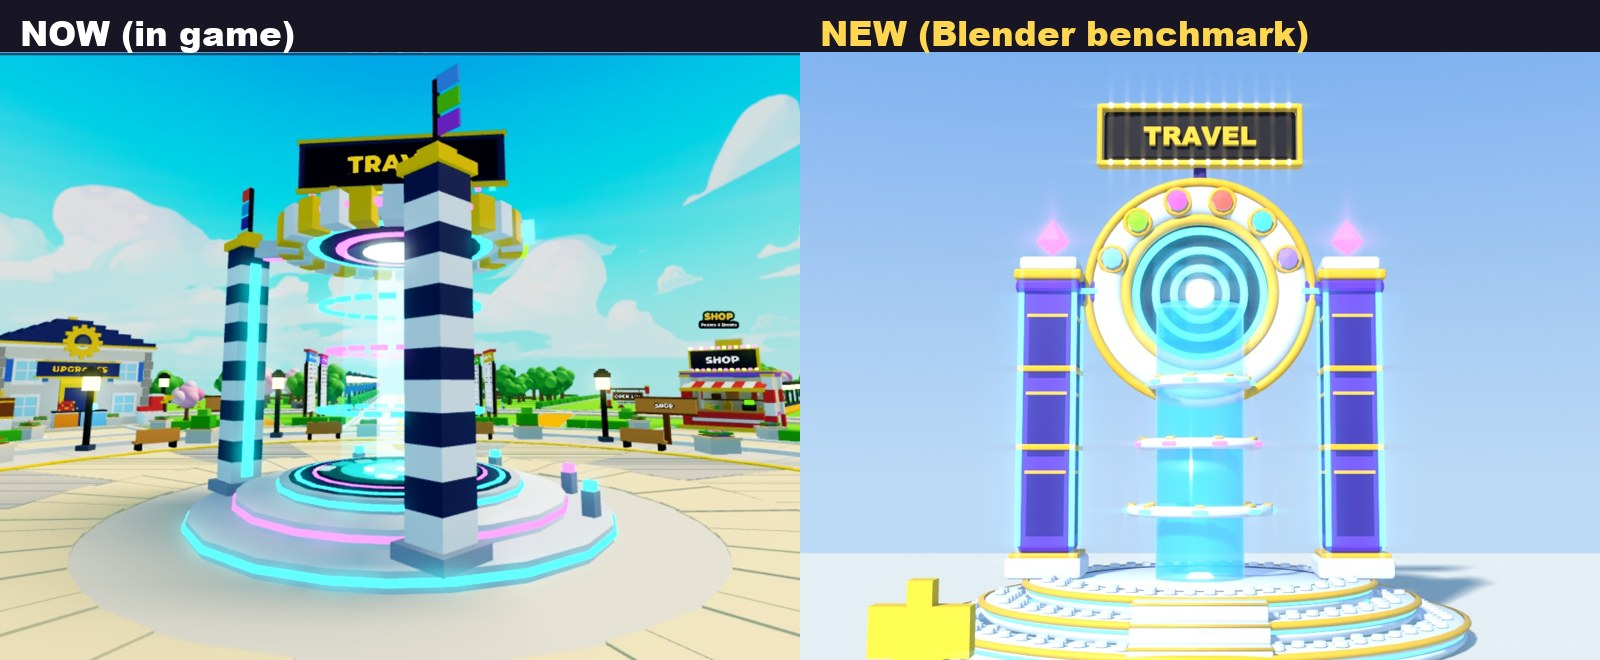
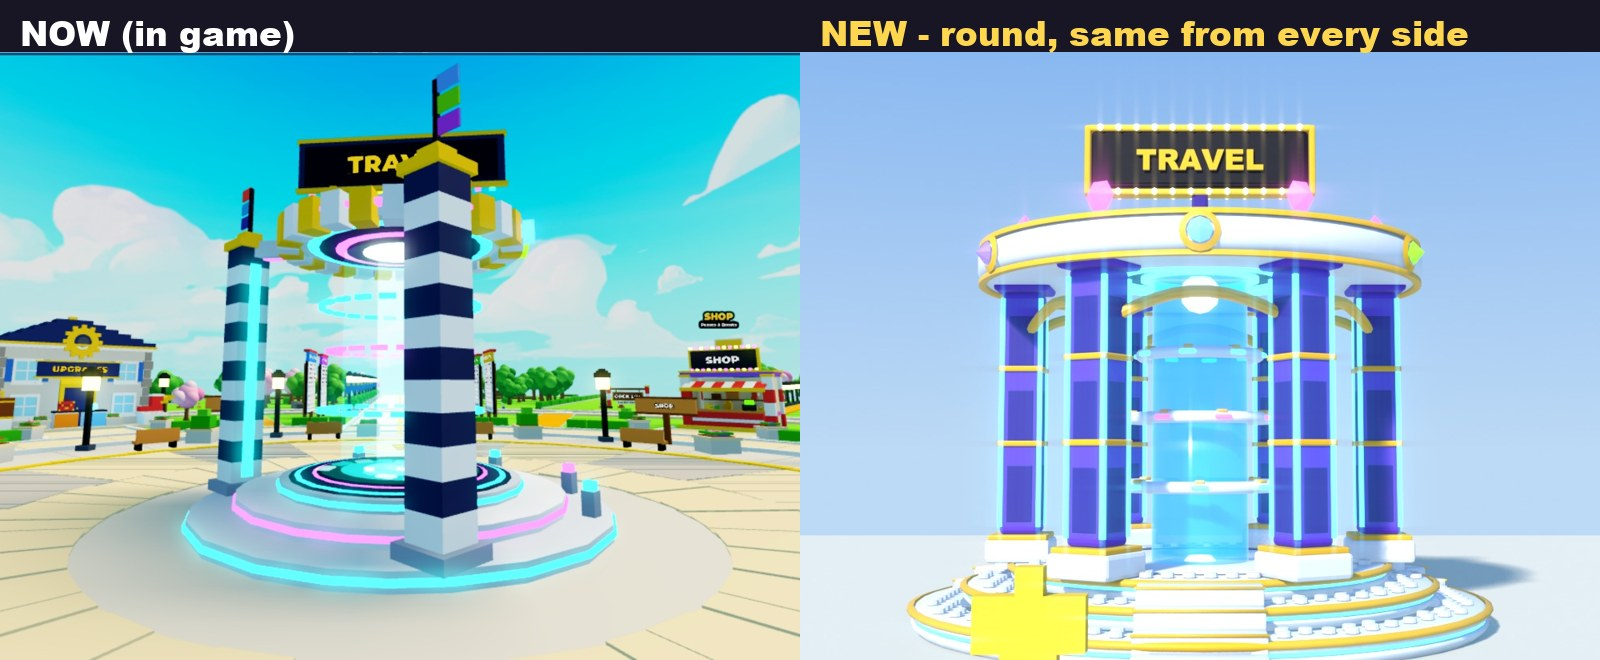
Portal benchmark v2 (crnuch: circular + symmetrical, the same from all sides): 6 pillars on a ring, flat crown with the 6 zone gems over the openings, emitter underneath, domed top, 3 stairways every 120 degrees, spinning 2-faced sign

Changed region(s): [[0.5, 0.1515, 1.0, 1.0], [0.5625, 0.0303, 0.9375, 0.0909]]

diff --git a/tools/blender/overhaul/portal.py b/tools/blender/overhaul/portal.py
@@ -143,9 +143,52 @@ def studs_annulus(name, look, r0, r1, z, pitch=1.0, rad=0.32, h=0.22, segs=10):
                 bm.faces.new(top)
 
 
-# ------------------------------------------------------------------ the portal
+# ------------------------------------------------------------------ the portal (v2, crnuch 2026-10-24: "circular and
+# symmetrical around so it looks the same from all sides": it stands in the middle of the hub plaza)
+def to_world(cx, cy, ang, lx, ly):
+    return (cx + lx * math.cos(ang) - ly * math.sin(ang), cy + lx * math.sin(ang) + ly * math.cos(ang))
+
+
+def gem_radial(name, look, centre, r, out, facets=8):
+    """A faceted crystal pointing outward along `out` (a horizontal direction)."""
+    bm = bm_for(name, look)
+    c, out = Vector(centre), Vector(out).normalized()
+    side = Vector((-out.y, out.x, 0))
+    ring = [bm.verts.new(c + (side * math.cos(k / facets * TAU) + Vector((0, 0, 1)) * math.sin(k / facets * TAU)) * r)
+            for k in range(facets)]
+    tip, back = bm.verts.new(c + out * r * 0.95), bm.verts.new(c - out * r * 0.5)
+    for k in range(facets):
+        j = (k + 1) % facets
+        bm.faces.new((ring[k], ring[j], tip))
+        bm.faces.new((ring[j], ring[k], back))
+
+
+def arc(name, look, p0, p1, rise, r=0.28, n=12, segs=8):
+    """A curved band from p0 to p1 bowing up by `rise` (the gold arches between the pillars)."""
+    bm = bm_for(name, look)
+    p0, p1 = Vector(p0), Vector(p1)
+    pts = [p0.lerp(p1, t) + Vector((0, 0, rise * math.sin(t * math.pi))) for t in (i / (n - 1) for i in range(n))]
+    rings, side = [], None
+    for i, p in enumerate(pts):
+        d = (pts[min(i + 1, n - 1)] - pts[max(i - 1, 0)]).normalized()
+        side = side or d.cross(Vector((0, 0, 1))).normalized()
+        side = (side - d * side.dot(d)).normalized()
+        up = side.cross(d).normalized()
+        rings.append([bm.verts.new(p + (side * math.cos(k / segs * TAU) + up * math.sin(k / segs * TAU)) * r) for k in range(segs)])
+    for i in range(n - 1):
+        for k in range(segs):
+            bm.faces.new((rings[i][k], rings[i][(k + 1) % segs], rings[i + 1][(k + 1) % segs], rings[i + 1][k]))
+
+
+PAD_Z = 3.1
+PILLAR_R = 9.6      # pillar ring radius
+PILLAR_H = 13.0
+CROWN_Z = PAD_Z + 1.45 + PILLAR_H + 1.2   # the crown ring sits on the pillar caps
+N_PILLARS = 6
+
+
 def stage():
-    """Three round tiers: bevelled white bodies, a gold lip, a recessed neon channel, studded tops."""
+    """Three round tiers: bevelled white bodies, a gold lip, a recessed neon channel, studded tops; steps on 4 sides."""
     tiers = ((15.0, 0.0, 1.2), (12.4, 1.2, 1.0), (10.0, 2.2, 0.9))
     for k, (R, z0, h) in enumerate(tiers):
         z1 = z0 + h
@@ -157,13 +200,16 @@ def stage():
         lathe("Stage_Gold", "trim_gold", [(R + 0.05, z1 - 0.32), (R + 0.22, z1 - 0.2), (R + 0.22, z1 - 0.05), (R - 0.1, z1 + 0.04)])
         inner = tiers[k + 1][0] if k < 2 else 7.4
         studs_annulus("Stage_Studs", "stage_white", inner, R - 0.4, z1 + 0.04)  # classic studs: the surface's own colour
-    # front steps up to the pad (they cut through the tier faces: the walk-in side)
-    for i in range(4):  # each step 0.775 up, ending flush with the top tier (3.1)
-        h = (i + 1) * 0.775
-        box("Stage_White", "stage_white", (0, -15.6 + i * 1.5, h / 2), (6.4, 1.5, h), bevel=0.1)
-        box("Stage_Gold", "trim_gold", (0, -16.35 + i * 1.5, h - 0.06), (6.5, 0.16, 0.12))
+    for q in range(3):  # three matching stairways every 120 degrees, each landing in a gap between pillars
+        ang = q * TAU / 3
+        for i in range(4):  # each step 0.775 up, ending flush with the top tier (3.1)
+            h = (i + 1) * 0.775
+            x, y = to_world(0, 0, ang, 0, -15.6 + i * 1.5)
+            box("Stage_White", "stage_white", (x, y, h / 2), (5.6, 1.5, h), bevel=0.1, rot=ang)
+            x, y = to_world(0, 0, ang, 0, -16.35 + i * 1.5)
+            box("Stage_Gold", "trim_gold", (x, y, h - 0.06), (5.7, 0.16, 0.12), rot=ang)
     # the pad: a dark recessed disc with glowing rings + the flat swirl
-    z = 3.1
+    z = PAD_Z
     lathe("Pad_Dark", "pad_dark", [(7.4, z + 0.05), (7.0, z - 0.2), (0.0, z - 0.2)])
     for r0, r1, look in ((6.6, 7.0, "neon_cyan"), (5.0, 5.3, "neon_pink"), (3.3, 3.55, "neon_cyan")):
         lathe("Pad_Rings", look, [(r1, z - 0.18), (r1, z - 0.05), (r0, z - 0.05), (r0, z - 0.18)])
@@ -171,107 +217,130 @@ def stage():
     lathe("SwirlCore", "core", [(0.9, z - 0.06), (0.6, z + 0.25), (0.0, z + 0.3)])
     for k in range(4):  # spiral arms lying flat on the pad (spun by the client)
         bm = bm_for(f"SwirlArm{k + 1}", "swirl")
-        pts = 16
         prev = None
-        for i in range(pts):
-            t = i / (pts - 1)
+        for i in range(16):
+            t = i / 15
             a = k / 4 * TAU + t * 3.4
             r = 0.9 + t * 5.4
             w = 0.5 * (1 - t) + 0.12
             p = Vector((math.cos(a) * r, math.sin(a) * r, z - 0.02))
-            n = Vector((-math.sin(a), math.cos(a), 0))
-            pair = (bm.verts.new(p + n * w), bm.verts.new(p - n * w))
+            nrm = Vector((-math.sin(a), math.cos(a), 0))
+            pair = (bm.verts.new(p + nrm * w), bm.verts.new(p - nrm * w))
             if prev:
                 bm.faces.new((prev[0], prev[1], pair[1], pair[0]))
             prev = pair
 
 
 def pylons():
-    """Two pillars beside the pad: stepped plinth, panelled shaft with neon edge strips, gold-trimmed capital, crystal."""
-    for side in (-1, 1):
-        x = side * 9.0
-        y = 1.0
-        base_z = 3.1
-        box("Pylon_Base", "stage_white", (x, y, base_z + 0.6), (4.4, 4.4, 1.2), bevel=0.25)
-        box("Pylon_Gold", "trim_gold", (x, y, base_z + 1.3), (4.0, 4.0, 0.3), bevel=0.08)
-        box("Pylon_Shaft", "pylon_purple", (x, y, base_z + 1.45 + 8.0), (3.2, 3.2, 16.0), bevel=0.3)
-        for dx, dy in ((1, 1), (1, -1), (-1, 1), (-1, -1)):  # neon edge strips on the four corners
-            box("Pylon_Glow", "neon_cyan", (x + dx * 1.55, y + dy * 1.55, base_z + 1.45 + 8.0), (0.28, 0.28, 15.2))
-        for face, (nx, ny) in enumerate(((0, -1), (0, 1), (-1, 0), (1, 0))):  # recessed panels with a gold frame, 3 per face
-            for k in range(3):
-                pz = base_z + 4.2 + k * 4.6
-                if nx == 0:
-                    box("Pylon_Deep", "pylon_deep", (x, y + ny * 1.52, pz), (2.2, 0.2, 3.6), bevel=0.05)
-                    box("Pylon_Gold", "trim_gold", (x, y + ny * 1.6, pz + 1.9), (2.4, 0.16, 0.18))
-                else:
-                    box("Pylon_Deep", "pylon_deep", (x + nx * 1.52, y, pz), (0.2, 2.2, 3.6), bevel=0.05)
-                    box("Pylon_Gold", "trim_gold", (x + nx * 1.6, y, pz + 1.9), (0.16, 2.4, 0.18))
-        for bz in (base_z + 1.45 + 5.6, base_z + 1.45 + 10.2):  # gold bands between the panels
-            box("Pylon_Gold", "trim_gold", (x, y, bz + 0.5), (3.5, 3.5, 0.35), bevel=0.08)
-        top = base_z + 1.45 + 16.0
-        box("Pylon_Shaft", "pylon_purple", (x, y, top - 0.4), (3.8, 3.8, 0.8), bevel=0.25)  # the capital flares out
-        box("Pylon_Gold", "trim_gold", (x, y, top + 0.3), (4.0, 4.0, 0.6), bevel=0.15)
-        box("Pylon_Base", "stage_white", (x, y, top + 1.0), (3.4, 3.4, 0.8), bevel=0.2)
-        gem("Pylon_Crystal", "neon_pink", (x, y, top + 2.6), 1.0, facets=6, axis_front=False)
-    # the arms that hold the halo: gold-trimmed beams from each capital in to the halo rim
-    for side in (-1, 1):
-        box("Pylon_Shaft", "pylon_purple", (side * 7.4, 1.0, 20.0), (3.4, 1.6, 1.4), bevel=0.25)
-        box("Pylon_Glow", "neon_cyan", (side * 7.4, 0.15, 20.0), (3.0, 0.2, 0.3))
+    """Six identical pillars on a ring, each turned to face outward: plinth, panelled shaft with neon edges and gold bands,
+    a flared capital; gold arches join neighbours just under the crown."""
+    base_z = PAD_Z
+    for i in range(N_PILLARS):
+        ang = i / N_PILLARS * TAU  # pillars at 0, 60, 120 ... degrees; the gaps (30, 90, ...) hold the stairways + the gems
+        cx, cy = math.cos(ang) * PILLAR_R, math.sin(ang) * PILLAR_R
+        face = ang + math.pi / 2  # local -y points outward
+        def B(look_name, look, lx, ly, z, size, bevel=0.0):
+            x, y = to_world(cx, cy, face, lx, ly)
+            box(look_name, look, (x, y, z), size, bevel=bevel, rot=face)
+        B("Pylon_Base", "stage_white", 0, 0, base_z + 0.6, (3.4, 3.4, 1.2), 0.22)
+        B("Pylon_Gold", "trim_gold", 0, 0, base_z + 1.3, (3.1, 3.1, 0.3), 0.08)
+        B("Pylon_Shaft", "pylon_purple", 0, 0, base_z + 1.45 + PILLAR_H / 2, (2.1, 2.1, PILLAR_H), 0.22)
+        for dx, dy in ((1, 1), (1, -1), (-1, 1), (-1, -1)):
+            B("Pylon_Glow", "neon_cyan", dx * 1.01, dy * 1.01, base_z + 1.45 + PILLAR_H / 2, (0.22, 0.22, PILLAR_H - 0.8))
+        for k in range(3):  # recessed panels on all four faces (the pillar looks the same from any side too)
+            pz = base_z + 3.6 + k * 4.0
+            for lx, ly, sx, sy in ((0, -0.99, 1.35, 0.2), (0, 0.99, 1.35, 0.2), (-0.99, 0, 0.2, 1.35), (0.99, 0, 0.2, 1.35)):
+                B("Pylon_Deep", "pylon_deep", lx, ly, pz, (sx, sy, 3.0), 0.05)
+        for bz in (base_z + 1.45 + 4.4, base_z + 1.45 + 8.4):
+            B("Pylon_Gold", "trim_gold", 0, 0, bz + 0.4, (2.4, 2.4, 0.3), 0.08)
+        top = base_z + 1.45 + PILLAR_H
+        B("Pylon_Shaft", "pylon_purple", 0, 0, top + 0.3, (3.0, 3.0, 0.6), 0.2)
+        B("Pylon_Gold", "trim_gold", 0, 0, top + 0.75, (3.2, 3.2, 0.3), 0.1)
+        gem_radial("Pylon_Crystal", "neon_pink", (cx, cy, CROWN_Z + 2.4), 0.8, (math.cos(ang), math.sin(ang), 0), facets=6)
+    # gold arches between neighbouring pillars, just under the crown
+    for i in range(N_PILLARS):
+        a0, a1 = i / N_PILLARS * TAU, (i + 1) / N_PILLARS * TAU
+        z = PAD_Z + 1.45 + PILLAR_H - 2.6
+        arc("Arch_Gold", "trim_gold", (math.cos(a0) * PILLAR_R, math.sin(a0) * PILLAR_R, z),
+            (math.cos(a1) * PILLAR_R, math.sin(a1) * PILLAR_R, z), 1.6, r=0.3)
 
 
 def halo():
-    """The floating emitter: a thick white rim with a gold inner lip, six gem sockets, concentric glowing rings, the core."""
-    c = Vector((0, 1.0, 20.0))
-    torus_v("Halo_Rim", "stage_white", c, 5.6, 1.1, segs=64, tube=14, axis="y", sx=1.0)
-    torus_v("Halo_Gold", "trim_gold", c + Vector((0, -0.55, 0)), 4.45, 0.35, segs=64, tube=10, axis="y")
-    torus_v("Halo_Gold", "trim_gold", c + Vector((0, -0.55, 0)), 6.75, 0.3, segs=64, tube=10, axis="y")
-    for i in range(6):  # gems across the top half, in lane order left -> right
-        a = math.radians(160 - i * 28)
-        p = c + Vector((math.cos(a) * 5.6, -1.15, math.sin(a) * 5.6))
-        torus_v("Halo_Gold", "trim_gold", p + Vector((0, 0.15, 0)), 0.75, 0.16, segs=20, tube=8, axis="y")
-        gem(f"Gem{i + 1}", f"gem{i + 1}", p + Vector((0, -0.2, 0)), 0.62, facets=8)
-    # the emitter face: concentric rings that glow downwards, the core in the middle
-    for R, look in ((3.9, "neon_cyan"), (2.7, "neon_pink"), (1.6, "neon_cyan")):
-        torus_v("Halo_Rings", look, c + Vector((0, 0.1, 0)), R, 0.22, segs=48, tube=8, axis="y")
-    box("Halo_Back", "pad_dark", c + Vector((0, 0.6, 0)), (9.4, 0.4, 9.4), bevel=0.2)
+    """The crown: a flat white ring on the pillar caps with gold lips, the six zone gems round its outer edge (each facing
+    out, in lane order), and the emitter underneath - concentric glowing rings + the core, shining down the beam."""
+    z = CROWN_Z
+    lathe("Halo_Rim", "stage_white", [(PILLAR_R - 2.2, z - 0.9), (PILLAR_R + 2.0, z - 0.9), (PILLAR_R + 2.4, z - 0.4),
+                                       (PILLAR_R + 2.4, z + 0.5), (PILLAR_R + 2.0, z + 0.9), (PILLAR_R - 2.2, z + 0.9),
+                                       (PILLAR_R - 2.5, z + 0.4), (PILLAR_R - 2.5, z - 0.4), (PILLAR_R - 2.2, z - 0.9)], segs=72)
+    for zz, rr in ((z + 0.95, PILLAR_R + 2.15), (z - 0.95, PILLAR_R + 2.15), (z + 0.95, PILLAR_R - 2.3)):
+        lathe("Halo_Gold", "trim_gold", [(rr + 0.2, zz - 0.12), (rr + 0.2, zz + 0.12), (rr - 0.2, zz + 0.12), (rr - 0.2, zz - 0.12),
+                                          (rr + 0.2, zz - 0.12)], segs=72)
+    for i in range(6):  # the gems sit between the pillars, each in a gold socket, facing out
+        a = i / 6 * TAU - math.pi / 2  # over the six openings between pillars, starting at the front, in lane order
+        out = Vector((math.cos(a), math.sin(a), 0))
+        p = Vector((0, 0, z)) + out * (PILLAR_R + 2.45)
+        bm = bm_for("Halo_Gold", "trim_gold")
+        side = Vector((-out.y, out.x, 0))
+        ring = []
+        for k in range(16):  # the socket: a flat gold ring facing out
+            b = k / 16 * TAU
+            ring.append((bm.verts.new(p + (side * math.cos(b) + Vector((0, 0, 1)) * math.sin(b)) * 0.95),
+                         bm.verts.new(p + (side * math.cos(b) + Vector((0, 0, 1)) * math.sin(b)) * 0.65 + out * 0.15)))
+        for k in range(16):
+            j = (k + 1) % 16
+            bm.faces.new((ring[k][0], ring[j][0], ring[j][1], ring[k][1]))
+        gem_radial(f"Gem{i + 1}", f"gem{i + 1}", p + out * 0.2, 0.6, out)
+    # the emitter: a dark disc filling the ring, glowing rings facing down, the core
+    lathe("Halo_Back", "pad_dark", [(PILLAR_R - 2.2, z - 0.3), (0.0, z - 0.3)], segs=48)
+    # the crown's top: a shallow white dome with gold rings (seen from above as you walk up)
+    lathe("Halo_Rim", "stage_white", [(PILLAR_R - 2.3, z + 0.85), (5.2, z + 1.5), (3.0, z + 2.0), (1.0, z + 2.2), (0.0, z + 2.22)], segs=64)
+    for rr, zz in ((5.2, z + 1.52), (3.0, z + 2.02)):
+        lathe("Halo_Gold", "trim_gold", [(rr + 0.25, zz - 0.06), (rr + 0.25, zz + 0.1), (rr - 0.25, zz + 0.1), (rr - 0.25, zz - 0.06)], segs=48)
+    for R, look in ((6.2, "neon_cyan"), (4.6, "neon_pink"), (3.0, "neon_cyan")):
+        lathe("Halo_Rings", look, [(R + 0.25, z - 0.32), (R + 0.25, z - 0.55), (R - 0.25, z - 0.55), (R - 0.25, z - 0.32)], segs=48)
     bm = bm_for("HaloCore", "core")
-    g = bmesh.ops.create_icosphere(bm, subdivisions=2, radius=0.9)
+    g = bmesh.ops.create_icosphere(bm, subdivisions=2, radius=1.1)
     for v in g["verts"]:
-        v.co += c
+        v.co += Vector((0, 0, z - 1.2))
 
 
 def beam_and_rings():
-    """The light column from the pad up to the halo, and three floating rings around it (turned + bobbed in game)."""
-    lathe("Beam", "neon_cyan", [(2.6, 3.0), (2.6, 19.0), (0.0, 19.0)], segs=40)
-    for k, (z, R) in enumerate(((7.0, 4.0), (10.8, 3.4), (14.4, 2.8))):
+    """The light column from the pad up to the crown, and three floating rings around it (turned + bobbed in game)."""
+    lathe("Beam", "neon_cyan", [(2.6, PAD_Z - 0.1), (2.6, CROWN_Z - 0.5), (0.0, CROWN_Z - 0.5)], segs=40)
+    for k, (zf, R) in enumerate(((PAD_Z + 4.0, 4.4), (PAD_Z + 7.6, 3.8), (PAD_Z + 11.0, 3.2))):
         name = f"FloatRing{k + 1}"
-        torus_v(name + "_White", "stage_white", (0, 0, z), R, 0.32, segs=48, tube=10, axis="z")
-        for i in range(8):  # glowing inserts + gold caps around the ring
+        torus_v(name + "_White", "stage_white", (0, 0, zf), R, 0.32, segs=48, tube=10, axis="z")
+        for i in range(8):
             a = i / 8 * TAU + k * 0.3
-            p = Vector((math.cos(a) * R, math.sin(a) * R, z))
+            p = Vector((math.cos(a) * R, math.sin(a) * R, zf))
             box(name + "_Glow", "neon_pink" if k == 1 else "neon_cyan", p, (0.9, 0.9, 0.25), bevel=0.1, rot=a)
             box(name + "_Gold", "trim_gold", p + Vector((0, 0, 0.3)), (0.5, 0.5, 0.2), bevel=0.06, rot=a)
 
 
 def sign():
-    """The TRAVEL sign over the portal: a black attraction board with a gold frame and bulbs (CLAUDE.md sign styles)."""
-    z = 30.0  # clear of the halo's top (26.9)
-    box("Sign_Board", "sign_black", (0, 2.0, z), (12.0, 0.8, 3.4), bevel=0.25)
-    box("SignPlate", "sign_black", (0, 1.55, z), (11.0, 0.1, 2.6))
+    """The TRAVEL sign on a stem above the crown's centre: a black attraction board with a gold frame and bulbs (it spins in
+    game, text on both faces - so it reads from every side too)."""
+    z = CROWN_Z + 6.2
+    box("Sign_Post", "pylon_deep", (0, 0, CROWN_Z + 2.2), (0.9, 0.9, 4.4), bevel=0.15)
+    lathe("Sign_Gold", "trim_gold", [(1.6, CROWN_Z + 2.0), (1.6, CROWN_Z + 2.6), (0.0, CROWN_Z + 2.6)], segs=24)
+    box("Sign_Board", "sign_black", (0, 0, z), (12.0, 0.9, 3.4), bevel=0.25)
+    for yy in (-0.5, 0.5):
+        box("SignPlate" if yy < 0 else "Sign_PlateBack", "sign_black", (0, yy, z), (11.0, 0.1, 2.6))
     for dz in (1.8, -1.8):
-        box("Sign_Gold", "trim_gold", (0, 1.55, z + dz), (12.4, 1.0, 0.35), bevel=0.1)
+        box("Sign_Gold", "trim_gold", (0, 0, z + dz), (12.4, 1.1, 0.35), bevel=0.1)
     for dx in (6.2, -6.2):
-        box("Sign_Gold", "trim_gold", (dx, 1.55, z), (0.35, 1.0, 3.9), bevel=0.1)
+        box("Sign_Gold", "trim_gold", (dx, 0, z), (0.35, 1.1, 3.9), bevel=0.1)
+    bm = bm_for("Sign_Bulbs", "bulb_glow")
     for i in range(12):
-        bm = bm_for("Sign_Bulbs", "bulb_glow")
         for dz in (1.8, -1.8):
-            g = bmesh.ops.create_icosphere(bm, subdivisions=1, radius=0.2)
-            for v in g["verts"]:
-                v.co += Vector((-5.5 + i, 1.0, z + dz))
-    box("Sign_Post", "pylon_deep", (0, 2.0, 27.4), (0.8, 0.8, 1.8), bevel=0.15)  # the stem down to the halo
+            for yy in (-0.6, 0.6):
+                g = bmesh.ops.create_icosphere(bm, subdivisions=1, radius=0.2)
+                for v in g["verts"]:
+                    v.co += Vector((-5.5 + i, yy, z + dz))
     K_font = K.font("bold")  # (Arial Black stands in for Gotham Black in the preview)
-    t = K.label3d("TRAVEL", 0, 1.35, z, 2.2, look="trim_gold", rot=0, extrude=0.18, font=K_font)
-    t.name = "Preview_TravelText"  # (in game the SurfaceGui on SignPlate says TRAVEL)
+    for yy, rot in ((-0.6, 0), (0.6, 180)):
+        t = K.label3d("TRAVEL", 0, yy, z, 2.2, look="trim_gold", rot=rot, extrude=0.18, font=K_font)
+        t.name = "Preview_TravelText"  # (in game the SurfaceGui on SignPlate says TRAVEL)
 
 
 def trigger():
@@ -295,7 +364,7 @@ def build():
     K.sky_and_sun(sc, sun_energy=3.6, sun_rot=(55, 6, -30))
     sc.collection.objects.link(bpy.data.objects["Sun"])
     stage(); pylons(); halo(); beam_and_rings(); sign(); trigger()
-    player(-11, -19)
+    player(-6, -21)
     gb = bm_for("Preview_Ground", "plaza")
     bmesh.ops.create_grid(gb, x_segments=1, y_segments=1, size=60)
     obs = {}
@@ -338,9 +407,10 @@ def render(sc, name, loc, look, lens=30):
 sc = build()
 K.setup_eevee(sc, samples=48)
 stats()
-render(sc, "portal_front", (0, -60, 9), (0, 0, 15), lens=32)
-render(sc, "portal_three_quarter", (-38, -38, 15), (0, 0, 13), lens=32)
-render(sc, "portal_close", (13, -17, 7), (8, 1, 9), lens=30)
+render(sc, "portal_front", (0, -62, 9), (0, 0, 15), lens=32)
+render(sc, "portal_three_quarter", (-42, -42, 16), (0, 0, 14), lens=32)
+render(sc, "portal_side", (60, 12, 9), (0, 0, 15), lens=32)
+render(sc, "portal_above", (-30, -40, 48), (0, 0, 10), lens=32)
 if FBX:
     bpy.ops.object.select_all(action="DESELECT")
     for ob in bpy.data.objects:
